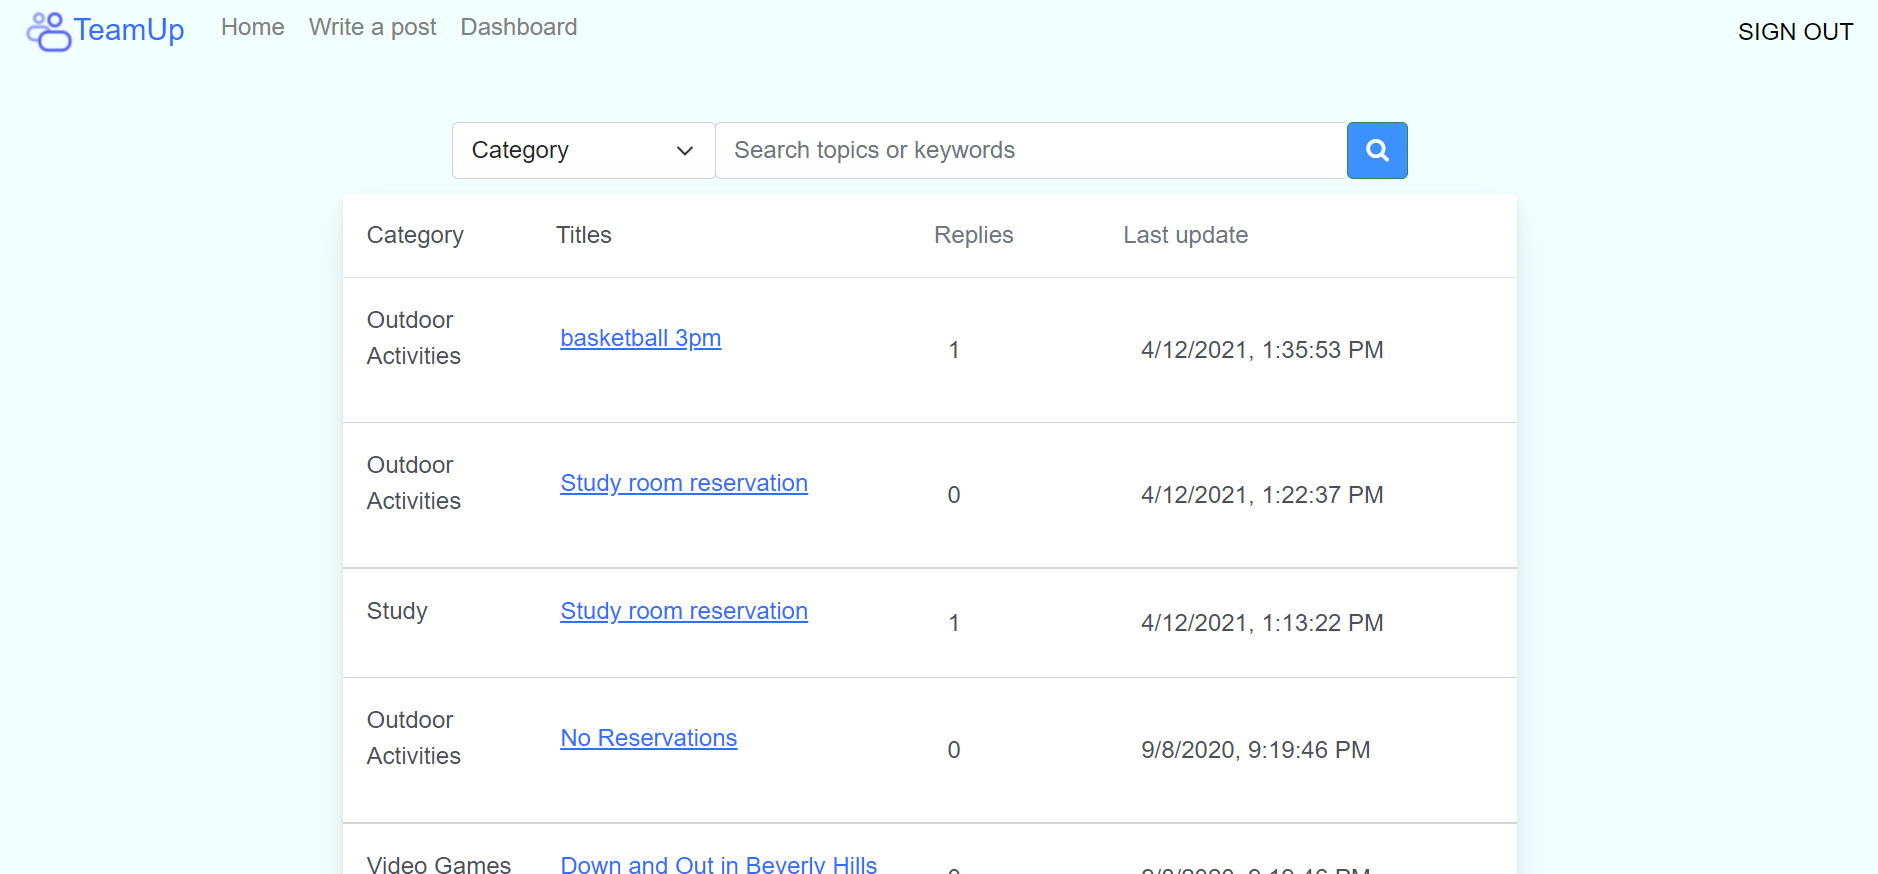
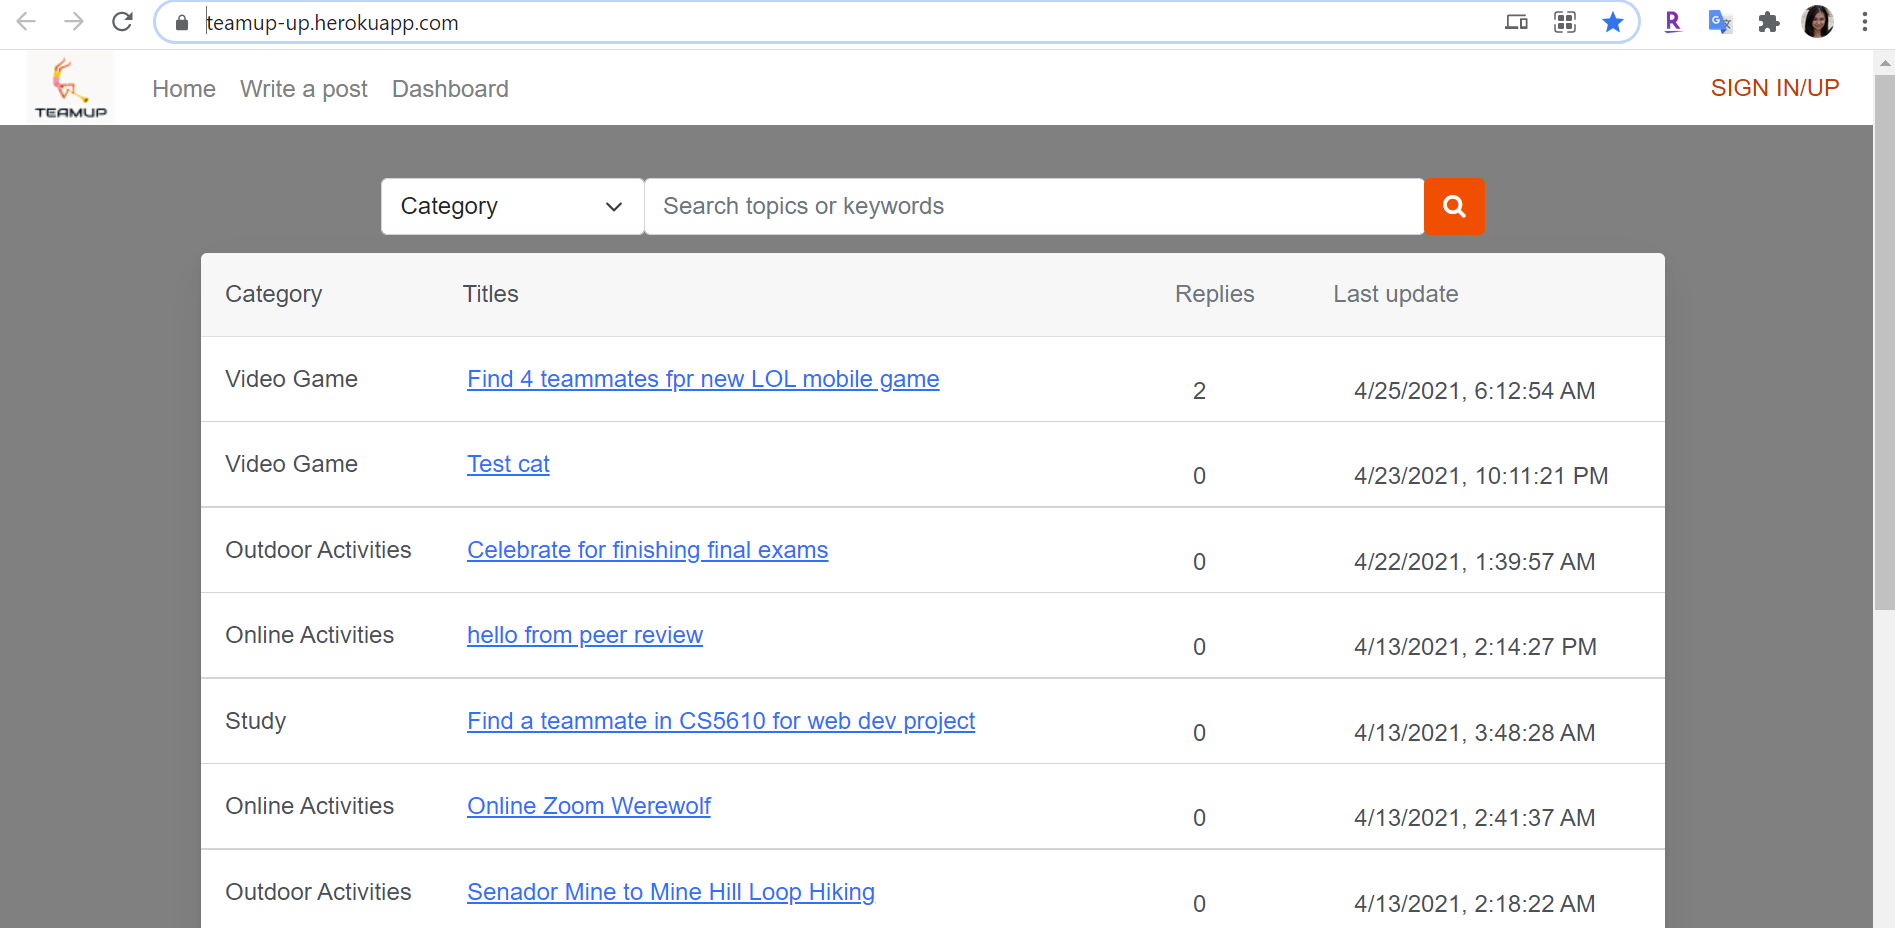
readme

diff --git a/README.md b/README.md
@@ -1,6 +1,6 @@
 <p align="center">
-  <a href="https://enigmatic-cliffs-18531.herokuapp.com/">
-    <img src="https://i.imgur.com/dZUT2A5.png" alt="TeamUp logo" width="200" height="200">
+  <a href="https://teamup-up.herokuapp.com/">
+    <img src="https://i.imgur.com/c9ocuEj.png" alt="TeamUp logo" width="150" height="160">
   </a>
 </p>
 
@@ -20,14 +20,14 @@ A teamup forum app serving students to conveniently  form teams to study, play a
 
 ### Project Objective
 ***
-This project is served as the 3nd project of Web Development course. 
+This project is served as the 4th project of Web Development course. 
 It aims to create a react application with Node + Express + React + Mongo + HTML5.
 And the app is deployed by Heroku.
 
 * The app applies user authentication.
 * User can create a post to find team members.
-* User can search/filter other’s posts and express interest/leave comments to join a team.
-* Post owner can check the posts he/she created, select team members and form a team.
+* User can search/filter other’s posts with/without login and express interest/leave comments to join a team after logging in.
+* Post owner can edit, delete, and check the status of the posts he/she created, select team members and form a team.
 * User can access to dashboard to check post status.
 
 ### Screenshots
